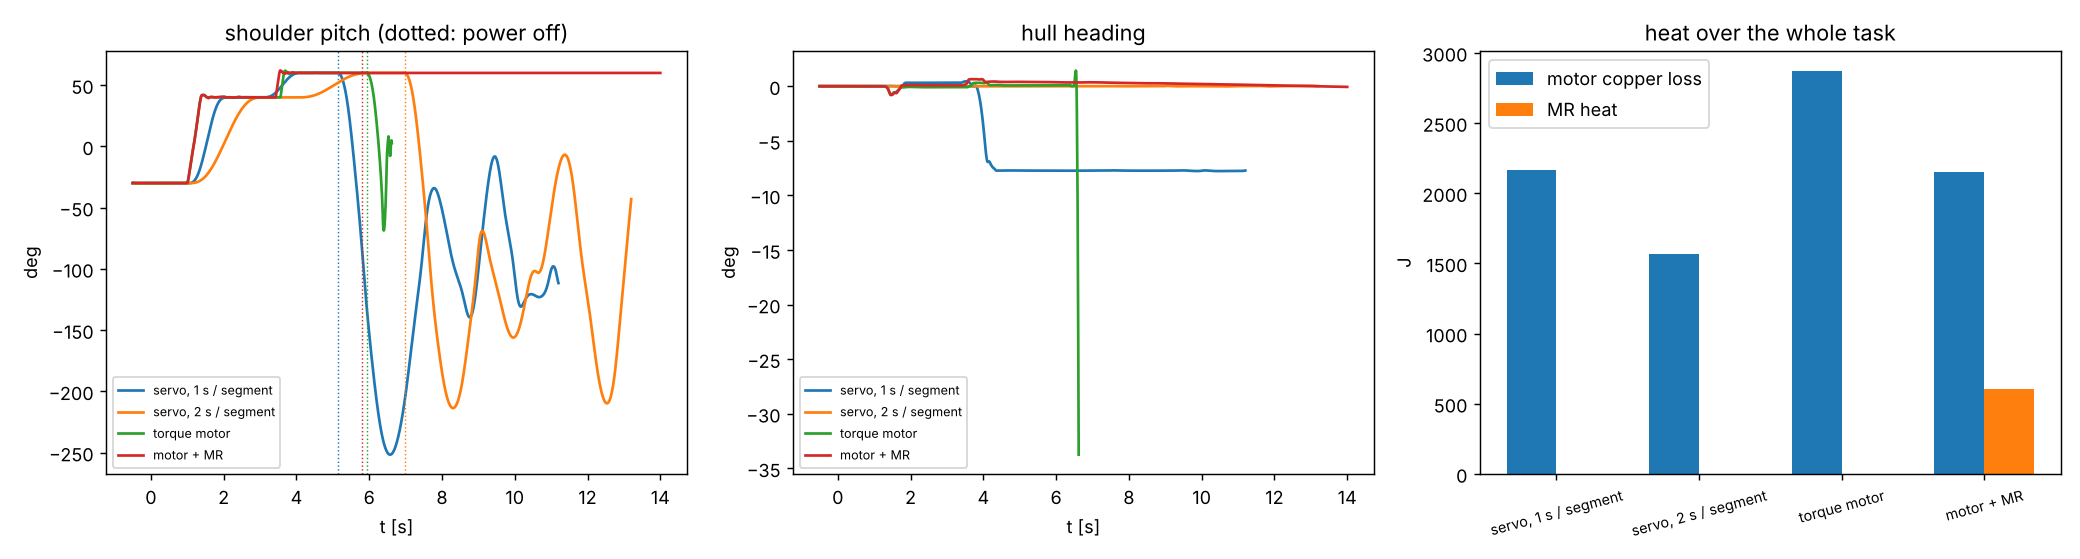
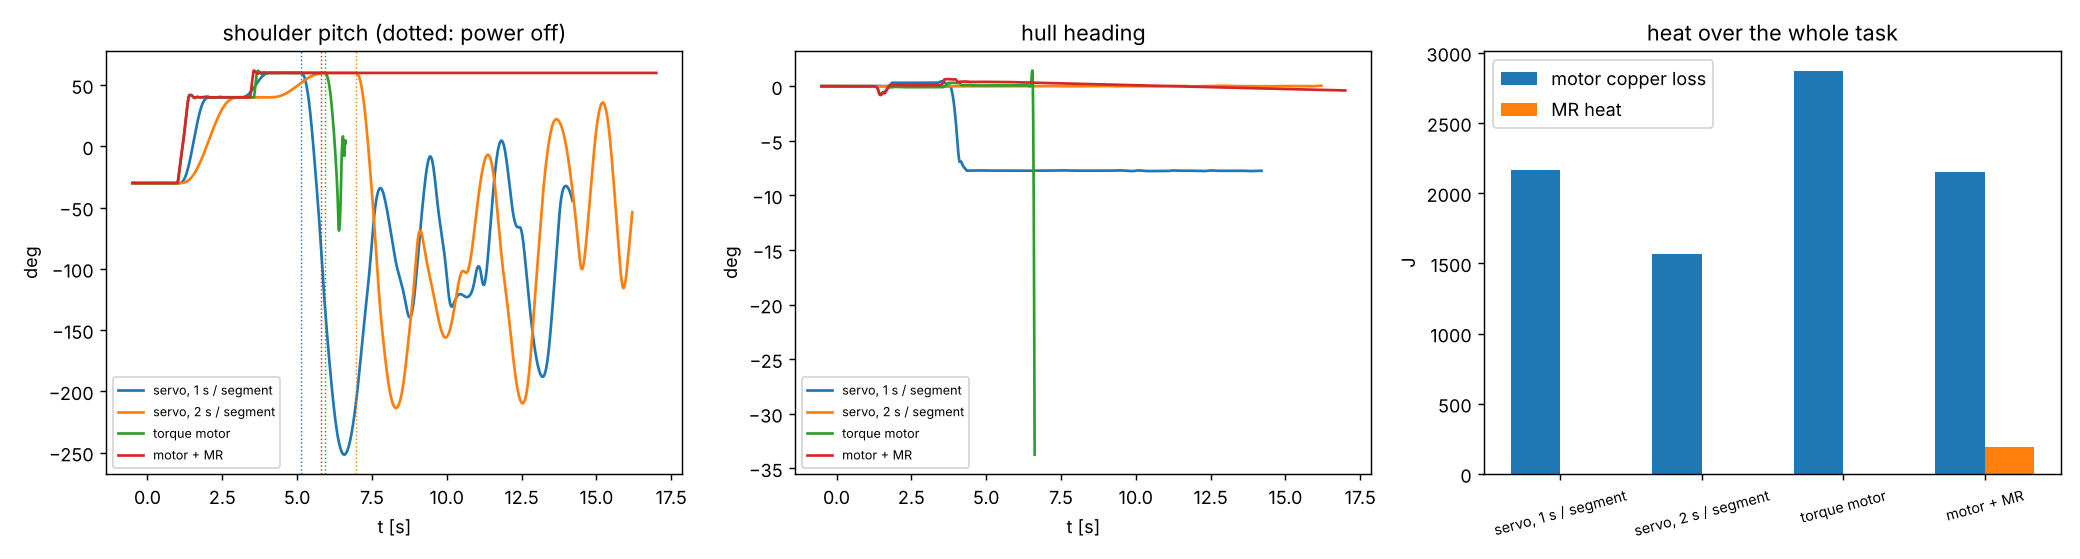
段階17: 電源が切れたら全関節を MR でつかむ修正後の結果、GIF 09、README
Claude-Session: https://claude.ai/code/session_011T5QroY7t6SiNDTQNKVyDW

diff --git a/sims/field17_arm3d.py b/sims/field17_arm3d.py
@@ -139,7 +139,8 @@ def setup(scheme):
                 else:
                     tau_mr[k] = -(st["ty"][k] * np.tanh(w[k] / 0.05) + 1.0 * w[k])
         d.ctrl[ids["a"]] = tau_m; d.qfrc_applied[ids["v"]] = tau_mr
-        st["cu"] += ALPHA * np.sum(tau_m**2) * dt; st["heat"] += -np.sum(tau_mr * w) * dt
+        if not off:                                                   # 熱は電源を切るまでで比べる（保持のモデルの小さな振動を熱として数えないため）
+            st["cu"] += ALPHA * np.sum(tau_m**2) * dt; st["heat"] += -np.sum(tau_mr * w) * dt
 
     T_total = T_START + 2 * (4.0 if Tseg is None else Tseg + 1.6) + 2 * DWELL + T_OFF + 1.0
     return xml, joints, ctrl, st, T_total
